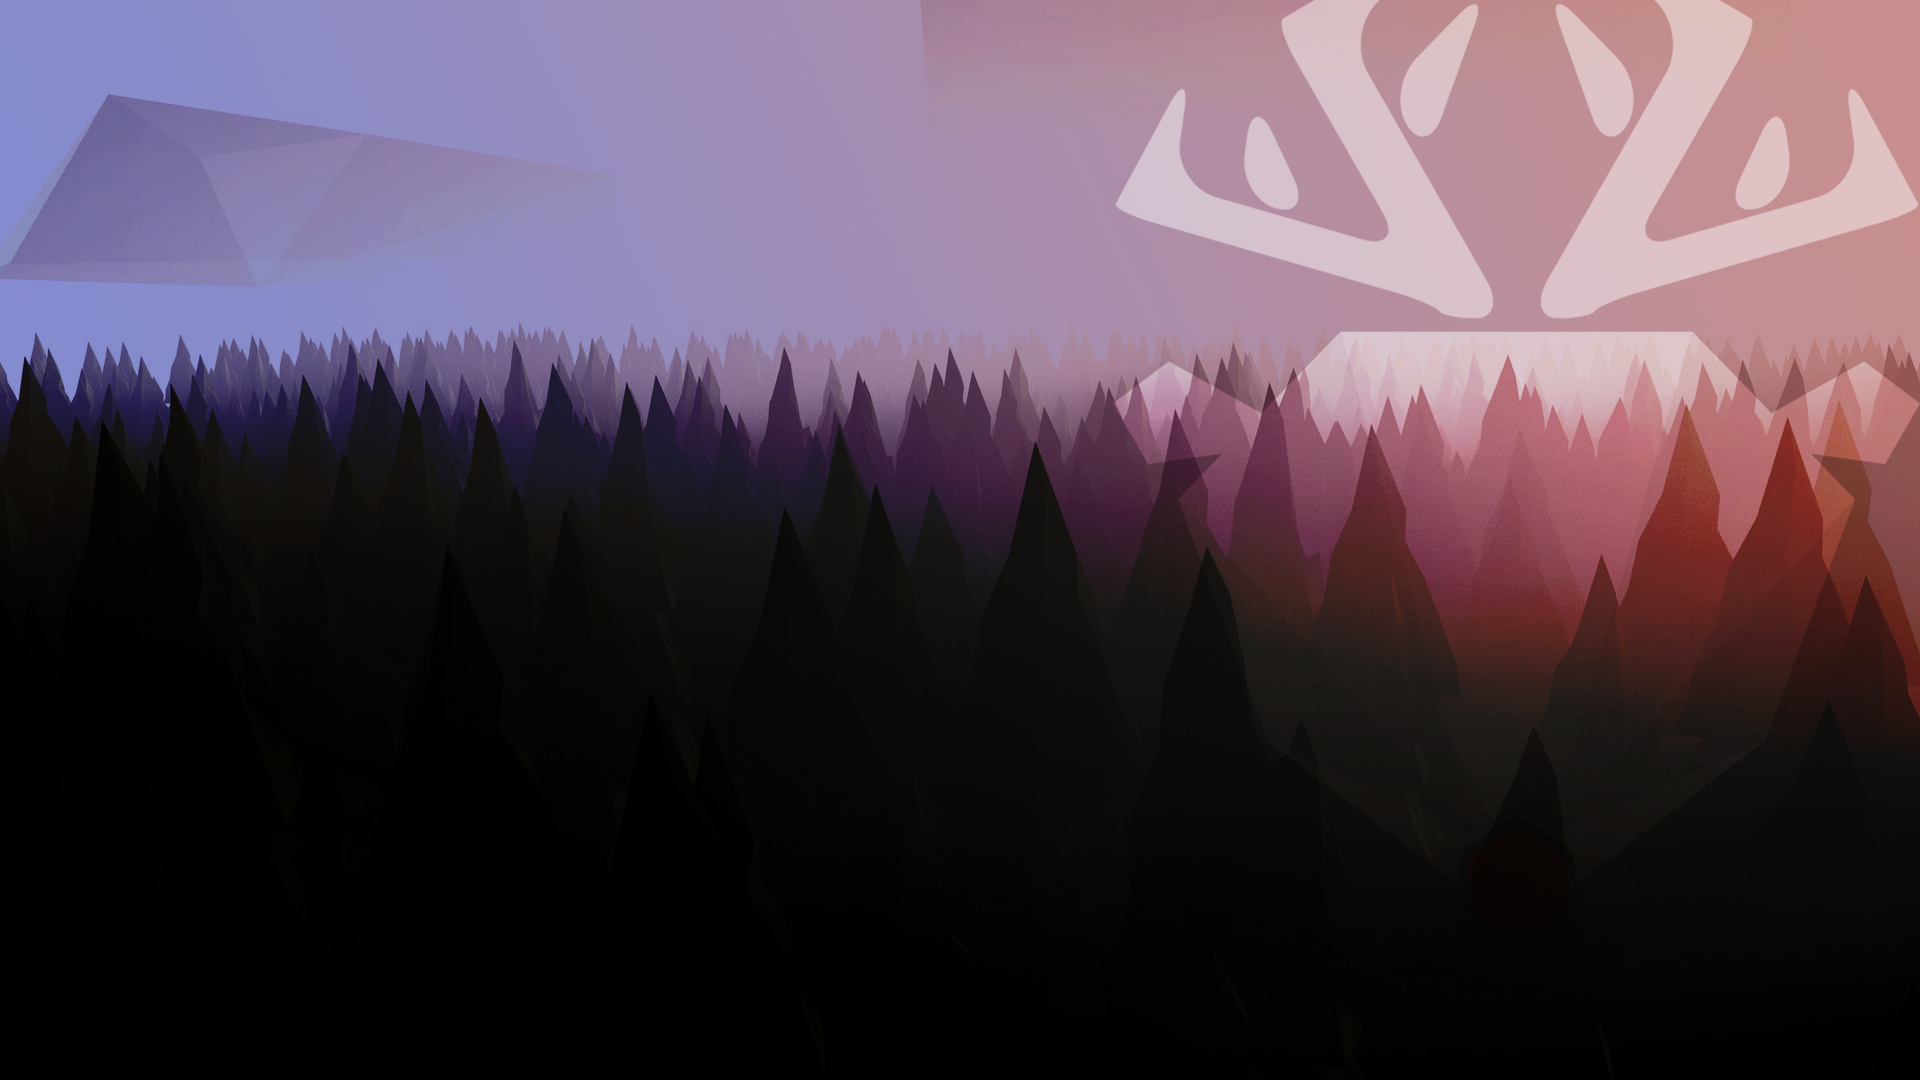
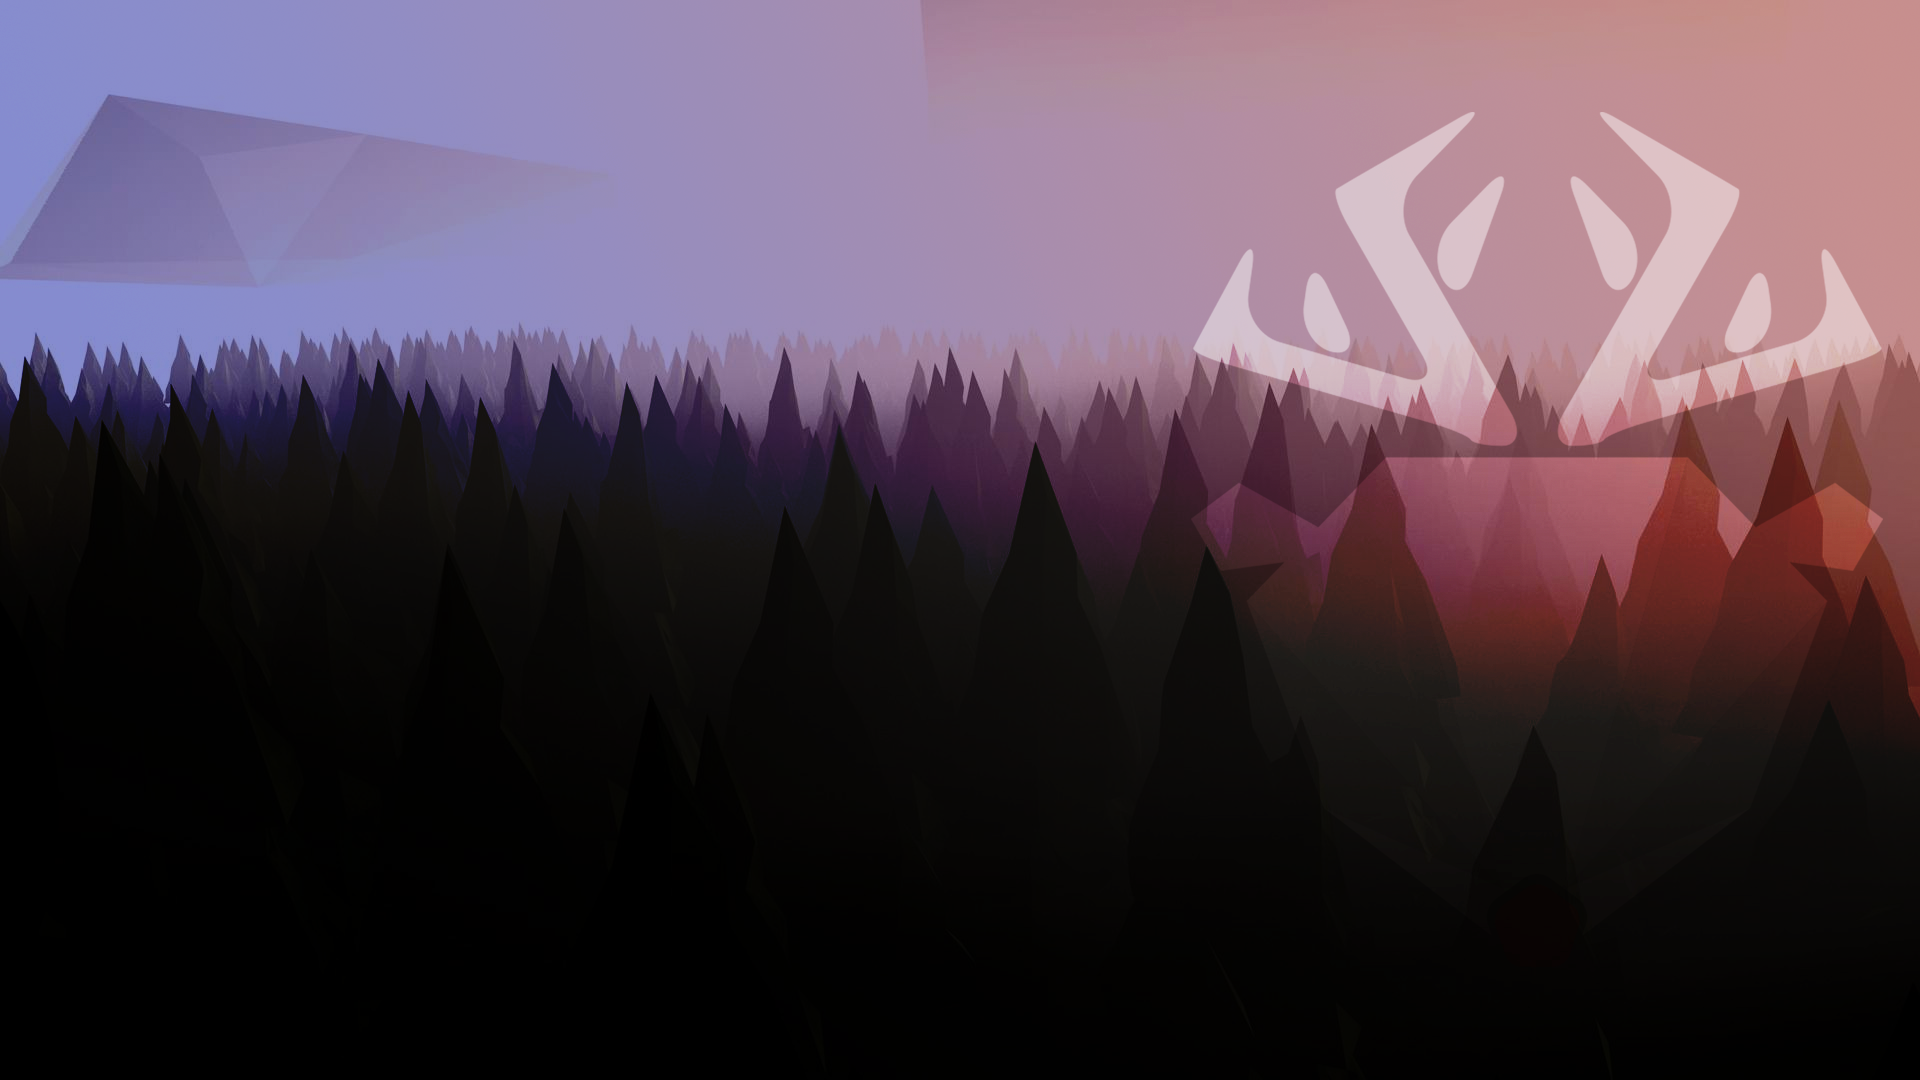
Change images

Changed region(s): [[0.5625, 0.0, 1.0, 0.55]]

diff --git a/client/src/components/HomePageJumbo/HomePageJumbo.css b/client/src/components/HomePageJumbo/HomePageJumbo.css
@@ -1,7 +1,7 @@
 .home-jumbotron {
     color: #fff;
     width: 100%;
-    background: url(/imgs/background.png) no-repeat center center fixed;
+    background: url(/imgs/background.png) no-repeat center right fixed;
     -webkit-background-size: cover;
     -moz-background-size: cover;
     -o-background-size: cover;
